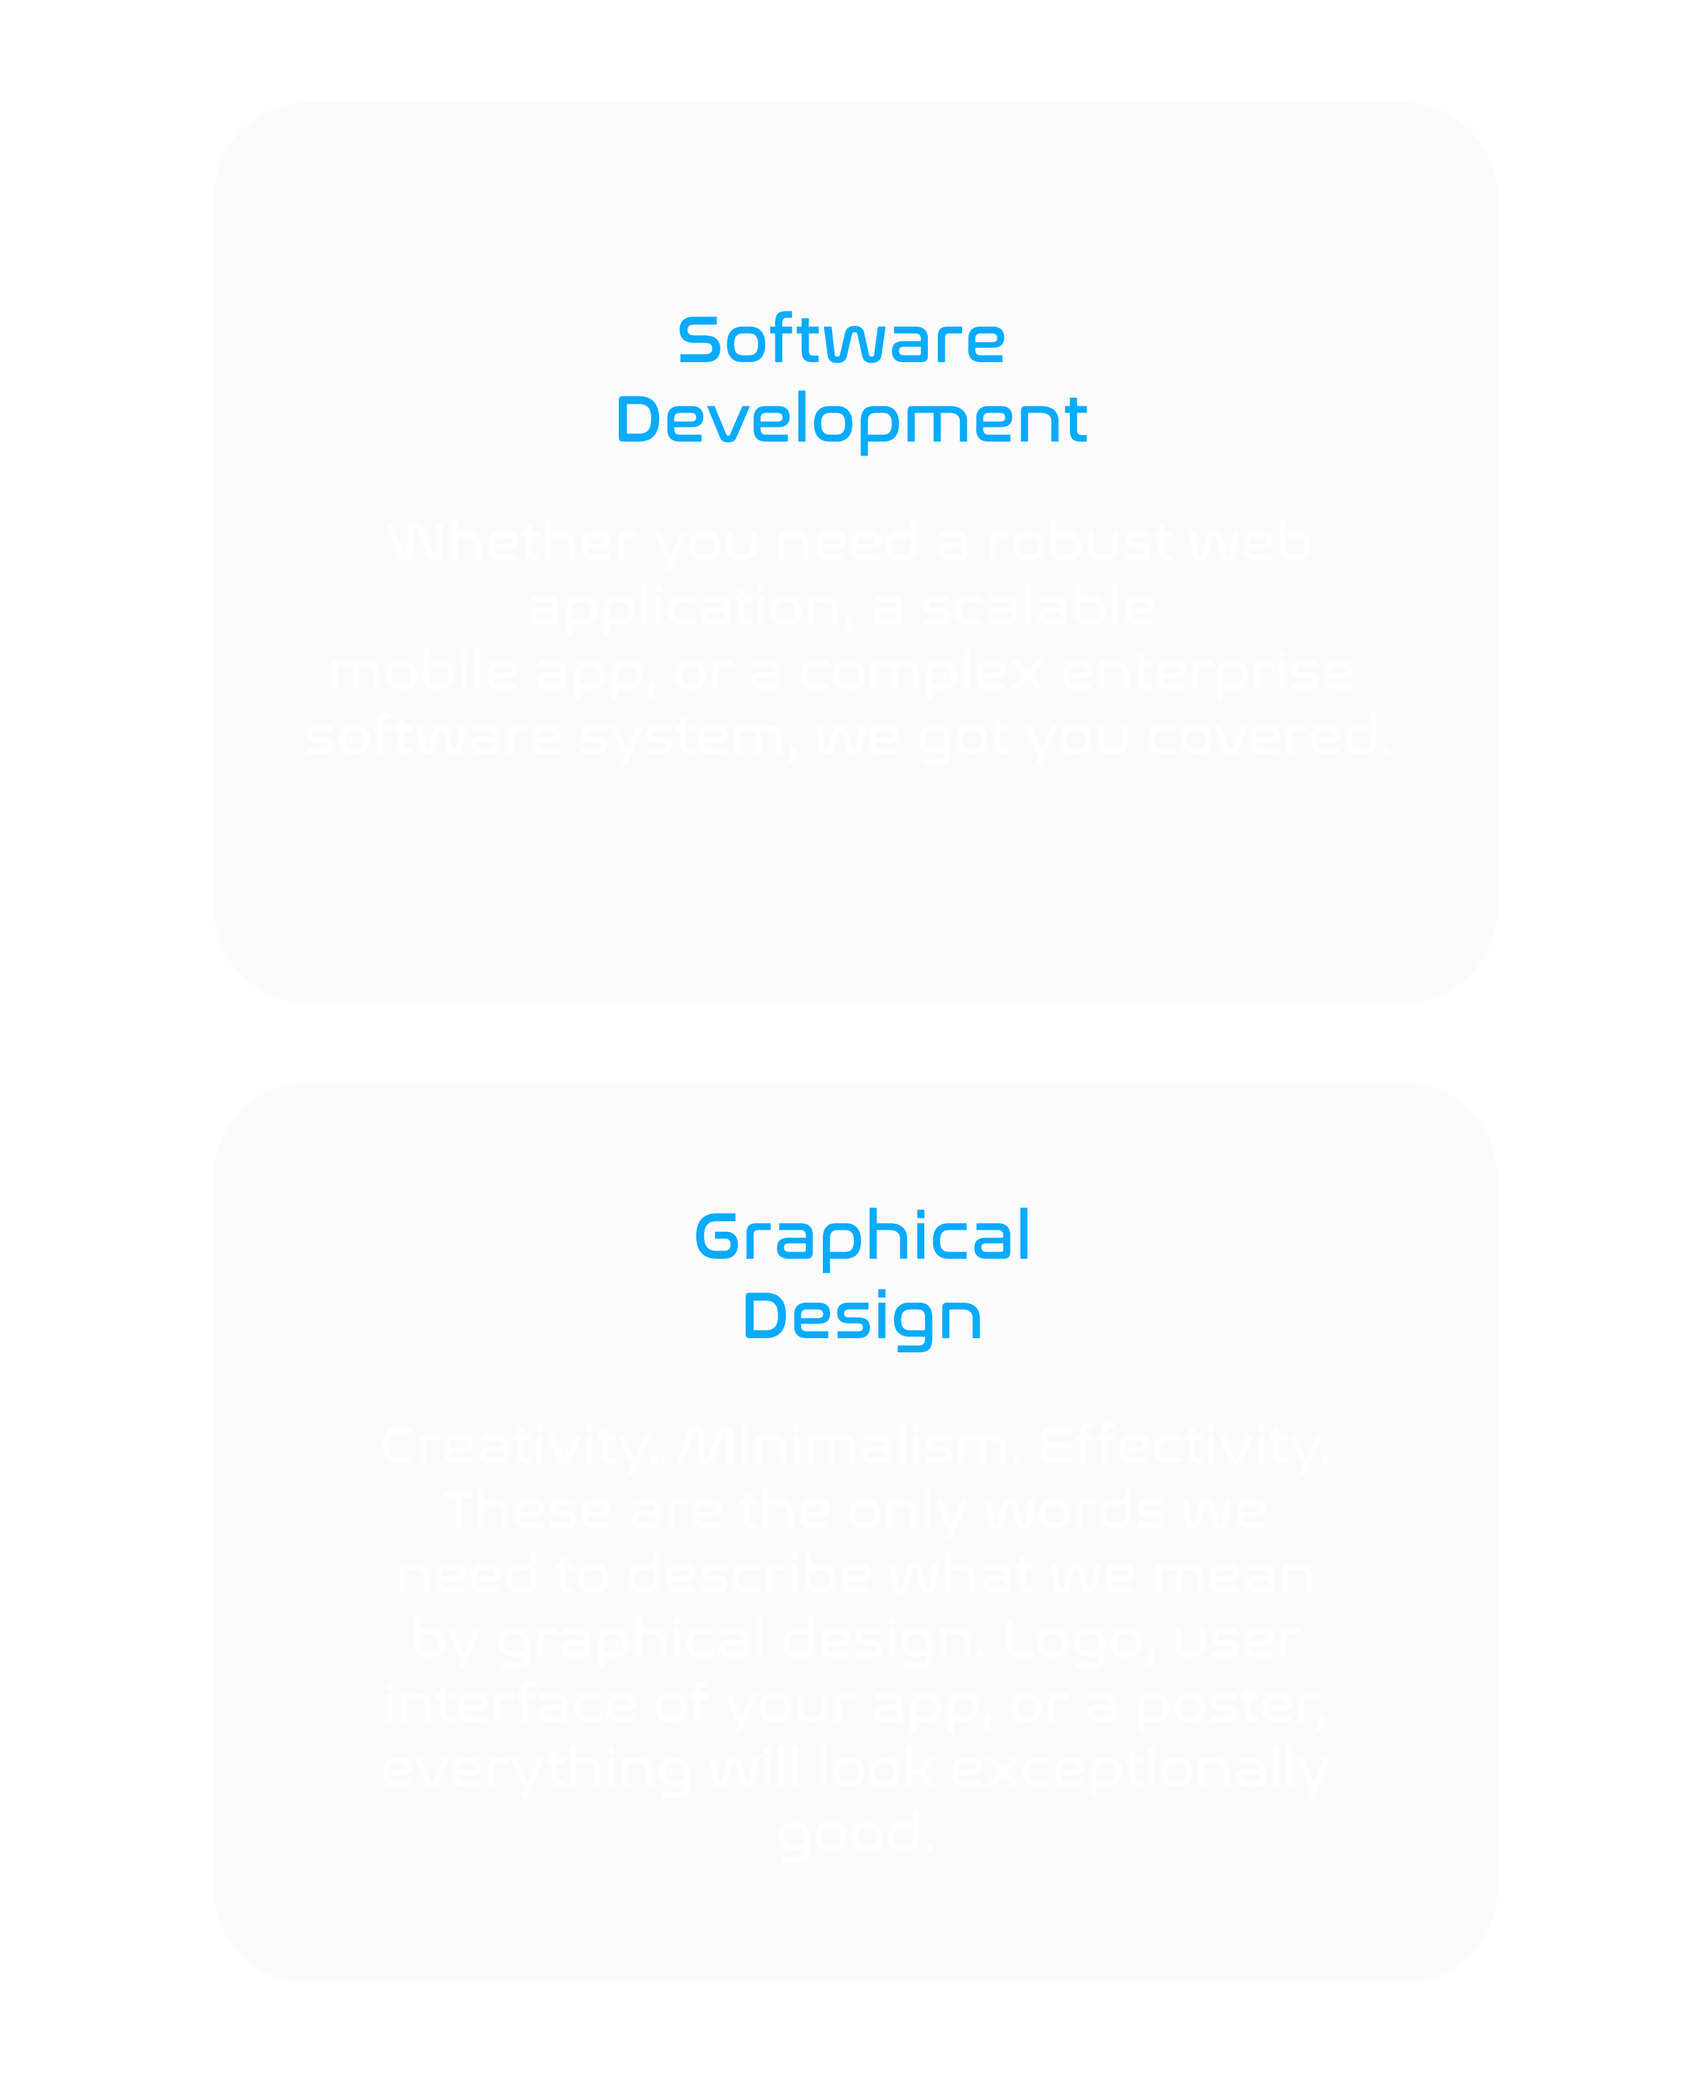
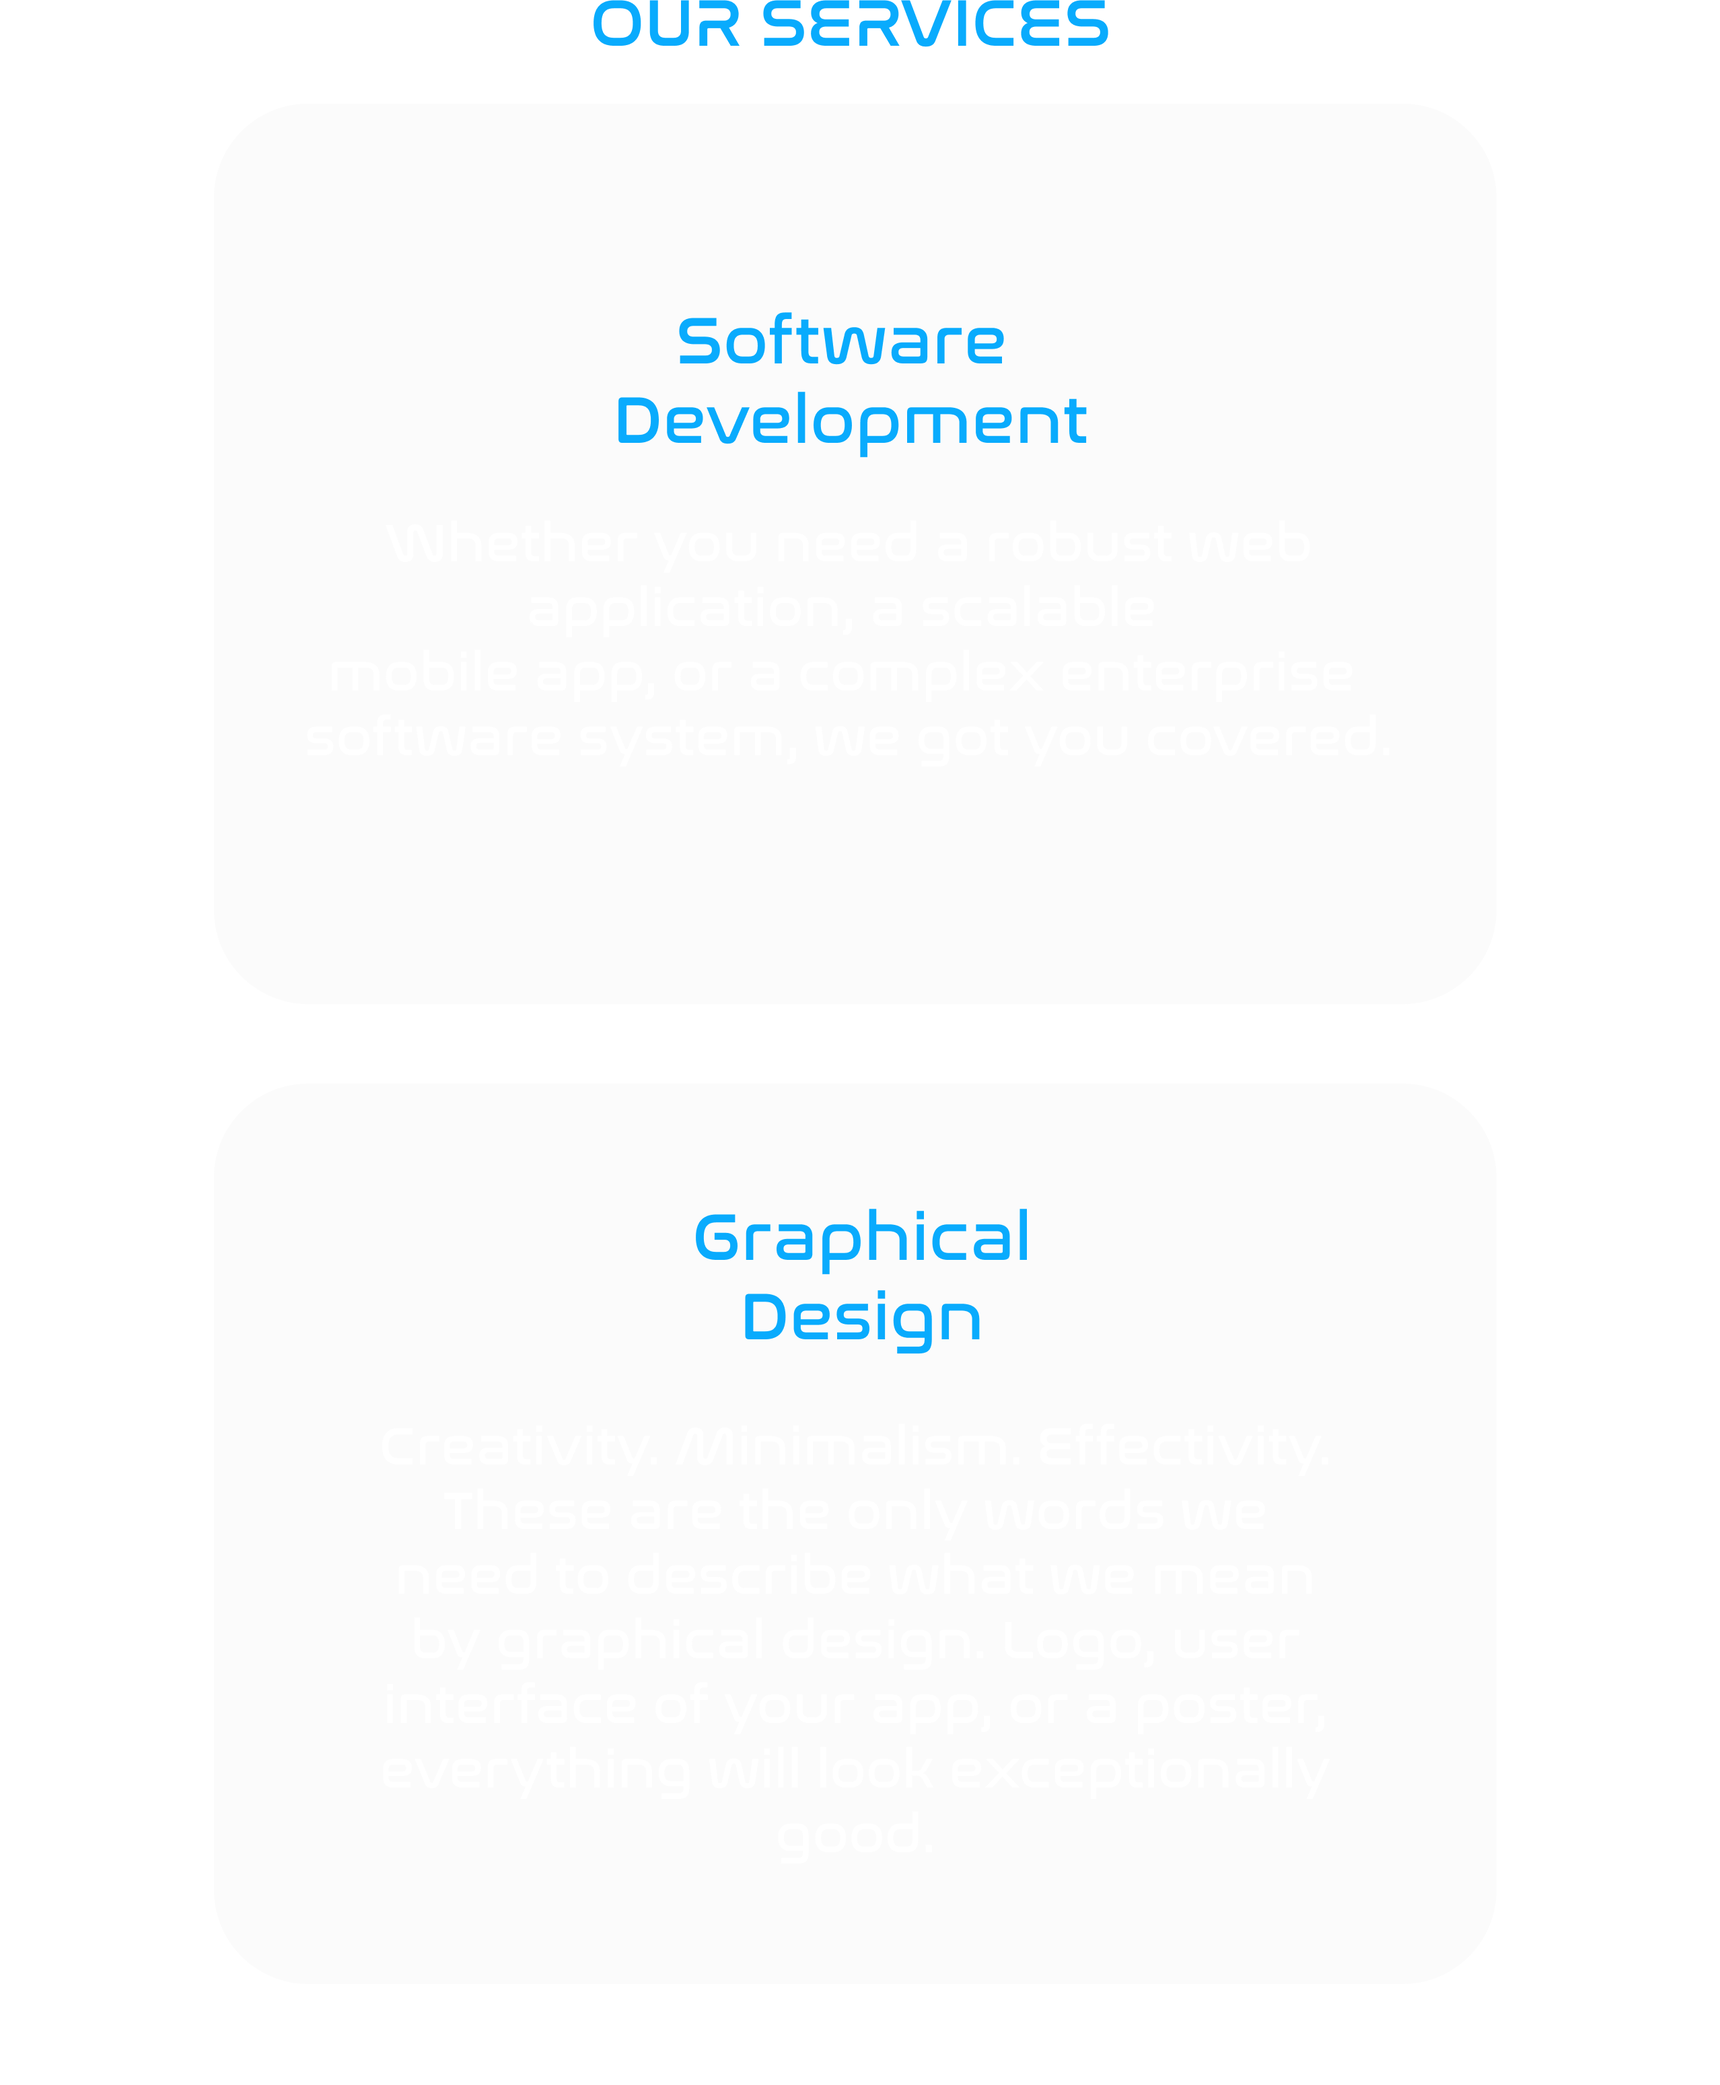
about and servies

Changed region(s): [[0.3402, 0.155, 0.6495, 0.2171], [0.4021, 0.5581, 0.6186, 0.6512], [0.3402, 0.0, 0.6495, 0.031]]

diff --git a/src/pages/About.jsx b/src/pages/About.jsx
@@ -1,11 +1,119 @@
 import React from 'react';
 import "../styles.css"
+// import Slider from 'react-slick';
+// import 'slick-carousel/slick/slick.css';
+// import 'slick-carousel/slick/slick-theme.css';
 import Navbar from '../components/Navbar';
+import colb from "../images/cards/collab.png"
+import crea from "../images/cards/creativity.png"
+import cus from "../images/cards/customer.png"
+import exc from "../images/cards/excellence.png"
+import grw from "../images/cards/growth.png"
+import inn from "../images/cards/innovation.png"
+import spd from "../images/cards/speed.png"
+import neub from "../images/neubauerf.png"
+import reh from "../images/rehakj.png"
+
 
 const About = () => {
-    
+   
+    // const settings = {
+    //     dots: true,
+    //         infinite: true,
+    //         speed: 500,
+    //         slidesToShow: 3,
+    //         slidesToScroll: 1,
+    //         autoplay: true,
+    //         autoplaySpeed: 2000,
+    //         responsive: [
+    //           {
+    //             breakpoint: 768,
+    //             settings: {
+    //               slidesToShow: 2,
+    //               slidesToScroll: 1
+    //             }
+    //           },
+    //           {
+    //             breakpoint: 480,
+    //             settings: {
+    //               slidesToShow: 1,
+    //               slidesToScroll: 1
+    //             }
+    //           }
+    //         ]
+    //     };
+
+    // carousel in the future
+
     return (
+        <>
         <Navbar/>
+        <div className='contentAbout'>
+        <div className='vision'>
+            <h2>Our Vision</h2>
+        <p> 
+        We envision a world transformed by our technological 
+        innovations. Through cutting-edge research, 
+        disruptive thinking, and collaboration, we aim 
+        to drive breakthroughs in key areas such as artificial 
+        intelligence, robotics, and sustainable solutions. Our 
+        vision extends beyond technological advancements; it 
+        encompasses creating a future where innovation serves 
+        as a catalyst for positive societal transformation, 
+        economic growth, and environmental stewardship.
+        </p>
+        </div>
+        
+        <div className='whatWeDo'>
+            <h2>What We Do</h2>
+        <p> 
+            We offer a comprehensive 
+            range of digital services 
+            designed to help businesses thrive in 
+            today's world. With our team of experienced 
+            software engineers and cutting-edge 
+            technologies, we deliver innovative 
+            solutions tailored to meet the 
+            unique needs of our clients.
+            </p>
+            </div>
+            <div className='coreValues'>
+            <h2>Our Core Values</h2>
+                <div className='cards'>
+                {/* <Slider {...settings}>
+                <div> */}
+                    <img src={colb} className='card'/>
+                {/* </div>
+                <div> */}
+                    <img src={cus} className='card'/>
+                {/* </div>
+                <div> */}
+                    <img src={crea} className='card'/>
+                {/* </div>
+                <div> */}
+                    {/* <img src={exc} className='card'/> */}
+                {/* </div>
+                <div> */}
+                    <img src={grw} className='card'/>
+                {/* </div>
+                <div> */}
+                    <img src={inn} className='card'/>
+                {/* </div>
+                <div> */}
+                    <img src={spd} className='card'/>
+                {/* </div>
+                </Slider> */}
+                            
+                </div>
+                <hr/>
+                <div className='team'>
+                    <h2>Our Team</h2>
+                    <img src={reh} className='member'/>
+                    <img src={neub} className='member'/>
+            </div>
+            </div>
+            </div>
+            </>
 )
 }
 

diff --git a/src/styles.css b/src/styles.css
@@ -11,6 +11,12 @@ html, body {
 h1 {
     font-family: nasalization;
     color: #09ABFD;
+    font-size: 50px;
+}
+h2 {
+    font-family: nasalization;
+    color: #09ABFD;
+    font-size: 30px;
 }
 
 p {
@@ -130,8 +136,6 @@ p {
     padding: 0;
 }
 
-
-
 /* temporary */
 a {
     font-family: nasalization;
@@ -141,6 +145,11 @@ a {
 }
 
 a:hover {
+    /* text-decoration: underline; */
+    color: #09ABFD;
+}
+
+a:active {
     /* text-decoration: underline; */
     color: #09ABFD;
 }
@@ -177,7 +186,29 @@ hr {
     display: flex;
     flex-direction: column;
     align-items: center;
-    margin-top: 100px;
+}
+
+.contentAbout {
+    display: flex;
+    flex-direction: column;
+    align-items: center;
+    text-align: center;
+}
+
+.vision {
+    display: flex;
+    flex-direction: column;
+    align-items: center;
+    text-align: center;
+    width: 50%;
+}
+
+.whatWeDo {
+    display: flex;
+    flex-direction: column;
+    align-items: center;
+    text-align: center;
+    width: 50%;
 }
 
 .pservices {
@@ -216,5 +247,24 @@ hr {
  .servicesimg {
     margin-top: 200px;
     width: 80%;
+ }
+
+ .cards {
+    display: flex;
+    justify-content: center;
+    align-items: center;
+    flex-wrap: wrap;
+    width: 60%;
+    margin: 0 auto;
+ }
+
+ .card {
+    width: 200px;
+    padding: 20px;
+ }
+
+ .member {
+    width: 500px;
+    padding: 20px;
  }
   

diff --git a/src/pages/Services.jsx b/src/pages/Services.jsx
@@ -6,26 +6,13 @@ import servimg from "../images/services.png"
 const Services = () => {
     
     return (
-        <div>
+        <>
         <Navbar/>
         <div className='contentServices'>
-            <h1>OUR SERVICES</h1>
-            <div className='pservices'>
-            <p> We offer a comprehensive 
-            range of software engineering, design 
-            and data abalytic services 
-            designed to help businesses thrive in the 
-            digital age. With our team of experienced 
-            software engineers and cutting-edge 
-            technologies, we deliver innovative 
-            solutions tailored to meet the 
-            unique needs of our clients.
-            </p>
-            </div>
             <img  src={servimg} className='servicesimg' alt='Services'/>
         </div>
 
-        </div>
+        </>
 )
 }
 

diff --git a/src/components/Navbar.jsx b/src/components/Navbar.jsx
@@ -3,14 +3,16 @@ import { Link } from 'react-router-dom';
 import "../styles.css"
 import miniLogo from "../images/r3.png"
 
+
 function Navbar() {
   return (
     <>
     <div className='wholeBar'>
       <nav className='navBar'>
           <ul className='navList'>
+
             <li>
-              <Link to='/About'>About Us</Link>
+              <Link to='/About'>About Us</Link>      
             </li>
             {/* <li>
               <Link to='/Configurator'>Configurator</Link>
@@ -36,12 +38,6 @@ function Navbar() {
             </li> */}
           </ul>
         </nav>
-
-        <button className="hamburger-menu">
-          <span ></span>
-          <span ></span>
-          <span ></span>
-        </button>
 
     </div>
 

diff --git a/src/pages/MainPage.jsx b/src/pages/MainPage.jsx
@@ -53,7 +53,9 @@ const MainPage = () => {
     }
 
 
-    return (<div className={`backG ${shifted ? "shifted" : ""}`}>
+    return (
+    <>
+    <div className={`backG ${shifted ? "shifted" : ""}`}>
     <div  className='introPage'>
       <img  src={logo} className='logo' alt='Remaster'/>
       <img src={ready} className='ready' alt='ready for tomorrow?'/>
@@ -112,6 +114,7 @@ const MainPage = () => {
 
 
 </div> 
+</>
 )
 }
 

diff --git a/src/pages/Projects.jsx b/src/pages/Projects.jsx
@@ -5,7 +5,9 @@ import Navbar from '../components/Navbar';
 const Projects = () => {
     
     return (
+        <>
         <Navbar/>
+        </>
 )
 }
 

diff --git a/src/pages/Pricing.jsx b/src/pages/Pricing.jsx
@@ -5,7 +5,9 @@ import Navbar from '../components/Navbar';
 const Pricing = () => {
     
     return (
+        <>
         <Navbar/>
+        </>
 )
 }
 
